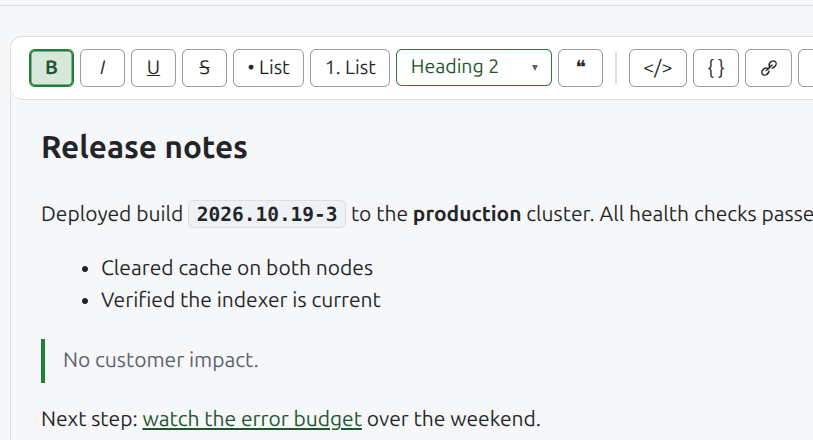
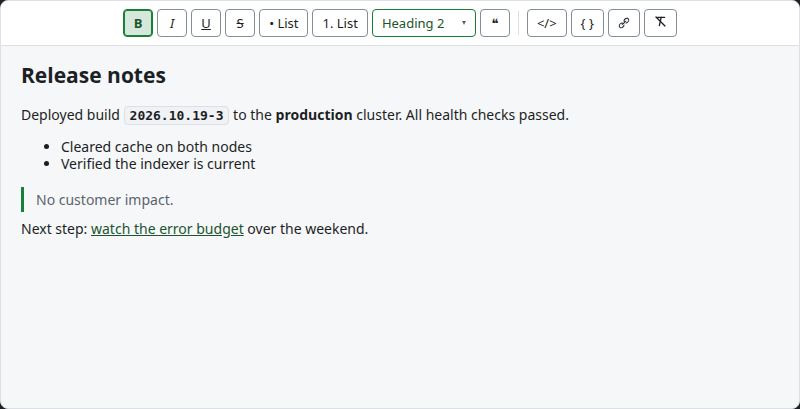
feat(dialogs,tutorial): make dialogs responsive, add Preview close & tabindex, refresh tutorial UX and screenshots (DIR-61)

diff --git a/index.html b/index.html
@@ -438,10 +438,10 @@
         <dialog
             id="previewDialog"
             class="preview-dialog"
-            aria-label="Work notes"
+            aria-label="Work notes preview"
         >
             <div class="preview-box">
-                <div class="mirror-body" id="mirrorBody">
+                <div class="mirror-body" id="mirrorBody" tabindex="0">
                     <div class="journal-entry">
                         <div class="journal-head">
                             <span
@@ -464,6 +464,14 @@
                                     id="journalTime"
                                 ></time>
                             </span>
+                            <button
+                                type="button"
+                                id="previewClose"
+                                class="preview-close"
+                                aria-label="Close preview"
+                            >
+                                ×
+                            </button>
                         </div>
 
                         <div
@@ -852,6 +860,9 @@
             <div class="tutorial-box">
                 <header class="tutorial-head">
                     <p class="tutorial-kicker">How it works</p>
+                    <span class="tutorial-counter" id="tutorialCounter"
+                        >1 / 2</span
+                    >
 
                     <button
                         type="button"
@@ -865,7 +876,7 @@
 
                 <div class="tutorial-body" id="tutorialBody">
                     <section class="tutorial-step" data-step="0">
-                        <h3>What this tool does</h3>
+                        <h2>What this tool does</h2>
 
                         <p>
                             ServiceNow shows Work notes and Additional Comments
@@ -879,15 +890,15 @@
                             <img
                                 class="tutorial-shot-dark"
                                 src="assets/tutorial/editor-dark.png"
-                                width="813"
-                                height="440"
+                                width="800"
+                                height="409"
                                 alt="The editor card with a formatted entry and the formatting toolbar above it."
                             />
                             <img
                                 class="tutorial-shot-light"
                                 src="assets/tutorial/editor-light.png"
-                                width="813"
-                                height="440"
+                                width="800"
+                                height="409"
                                 alt="The editor card with a formatted entry and the formatting toolbar above it."
                             />
                             <figcaption>
@@ -899,7 +910,7 @@
                     </section>
 
                     <section class="tutorial-step" data-step="1" hidden>
-                        <h3>What lands on the clipboard</h3>
+                        <h2>What lands on the clipboard</h2>
 
                         <p>
                             Copy [formatted] (Ctrl+Alt+C) puts plain text on

diff --git a/styles.css b/styles.css
@@ -855,8 +855,9 @@ main {
 
 .journal-head {
     display: flex;
+    flex-wrap: wrap;
     align-items: center;
-    gap: 10px;
+    gap: 6px 10px;
     margin-bottom: 12px;
 }
 
@@ -887,6 +888,30 @@ main {
     white-space: nowrap;
     font-size: 14px;
     color: rgb(76, 86, 92);
+}
+
+.preview-close {
+    flex: none;
+    display: flex;
+    align-items: center;
+    justify-content: center;
+    width: 28px;
+    height: 28px;
+    padding: 0;
+    border: 1px solid transparent;
+    border-radius: 4px;
+    background: transparent;
+    color: rgb(76, 86, 92);
+    font-family: inherit;
+    font-size: 18px;
+    line-height: 1;
+    cursor: pointer;
+}
+
+.preview-close:hover {
+    border-color: rgb(180, 187, 192);
+    background: rgb(240, 242, 245);
+    color: rgb(16, 23, 26);
 }
 
 /* ---------- Saved messages ---------- */
@@ -1064,7 +1089,7 @@ main {
     display: flex;
     flex-direction: column;
     gap: 6px;
-    width: 22rem;
+    width: min(22rem, calc(100vw - 32px));
     max-width: 100%;
     padding: 16px;
     border: 1px solid var(--border-strong);
@@ -1298,10 +1323,13 @@ main {
 /* Two columns, wider than the single-field dialogs: the section list on the
    left, the setting beside it on the right. */
 .settings-form {
-    width: 34rem;
+    width: min(34rem, calc(100vw - 32px));
+    max-height: calc(100dvh - 32px);
 }
 
 .settings-body {
+    flex: 1 1 auto;
+    min-height: 0;
     display: flex;
     gap: 12px;
 }
@@ -1348,6 +1376,7 @@ main {
     flex: 1;
     min-width: 0;
     min-height: 10rem;
+    overflow-y: auto;
     padding-left: 12px;
 }
 
@@ -1509,6 +1538,12 @@ main {
     text-transform: uppercase;
 }
 
+.tutorial-counter {
+    color: var(--muted);
+    font-size: 11px;
+    font-variant-numeric: tabular-nums;
+}
+
 .tutorial-close {
     flex: none;
     margin-left: auto;
@@ -1551,7 +1586,7 @@ main {
     display: none;
 }
 
-.tutorial-step h3 {
+.tutorial-step h2 {
     margin: 0;
     font-size: 17px;
 }
@@ -1642,6 +1677,28 @@ main {
 }
 
 @media (max-width: 640px) {
+    .settings-body {
+        flex-direction: column;
+    }
+
+    .settings-nav {
+        flex-direction: row;
+        flex-wrap: wrap;
+        width: 100%;
+        padding-right: 0;
+        padding-bottom: 8px;
+        border-right: none;
+        border-bottom: 1px solid var(--border);
+    }
+
+    .settings-nav-item {
+        width: auto;
+    }
+
+    .settings-panels {
+        padding-left: 0;
+    }
+
     .tutorial-foot {
         flex-wrap: wrap;
     }

diff --git a/js/tutorial.js b/js/tutorial.js
@@ -60,6 +60,9 @@ function showTutorialStep(index) {
     tutorialBack.hidden = tutorialIndex === 0;
     tutorialNext.textContent =
         tutorialIndex === tutorialSteps.length - 1 ? "Done" : "Next";
+    if (tutorialCounter) {
+        tutorialCounter.textContent = `${tutorialIndex + 1} / ${tutorialSteps.length}`;
+    }
     tutorialBody.scrollTop = 0;
 }
 
@@ -81,6 +84,7 @@ function openTutorial() {
  * the Settings button that launched it.
  */
 let focusEditorAfterClose = false;
+let openedTutorialFromSettings = false;
 
 function maybeShowTutorial() {
     if (tutorialIsHidden()) return;
@@ -90,7 +94,13 @@ function maybeShowTutorial() {
 }
 
 tutorialDialog.addEventListener("close", () => {
-    if (focusEditorAfterClose && matchMedia("(min-width: 801px)").matches) {
+    if (openedTutorialFromSettings) {
+        openedTutorialFromSettings = false;
+        settingsBtn.focus();
+    } else if (
+        focusEditorAfterClose &&
+        matchMedia("(min-width: 801px)").matches
+    ) {
         editor.focus();
     }
 
@@ -139,6 +149,8 @@ tutorialStartInput.addEventListener("change", () => {
 });
 
 tutorialOpenBtn.addEventListener("click", () => {
+    openedTutorialFromSettings = true;
+
     if (settingsDialog.open) settingsDialog.close();
 
     openTutorial();

diff --git a/js/core.js b/js/core.js
@@ -7,6 +7,7 @@ const mirror = document.getElementById("mirror");
 const mirrorBody = document.getElementById("mirrorBody");
 const journalTime = document.getElementById("journalTime");
 const previewDialog = document.getElementById("previewDialog");
+const previewClose = document.getElementById("previewClose");
 const previewBtn = document.getElementById("previewBtn");
 const copyBtn = document.getElementById("copyBtn");
 const toolbar = document.getElementById("toolbar");
@@ -49,6 +50,7 @@ const accentResetBtn = document.getElementById("accentResetBtn");
 const clearAfterCopyInput = document.getElementById("clearAfterCopyInput");
 const tutorialDialog = document.getElementById("tutorialDialog");
 const tutorialBody = document.getElementById("tutorialBody");
+const tutorialCounter = document.getElementById("tutorialCounter");
 const tutorialClose = document.getElementById("tutorialClose");
 const tutorialBack = document.getElementById("tutorialBack");
 const tutorialNext = document.getElementById("tutorialNext");

diff --git a/js/settings.js b/js/settings.js
@@ -35,6 +35,10 @@ function openSettingsDialog() {
 function openSettingsDialogAt(name) {
     showSettingsPanel(name);
     openSettingsDialog();
+
+    const active = settingsNav.querySelector(`[data-panel="${name}"]`);
+
+    if (active) active.focus();
 }
 
 settingsBtn.addEventListener("click", openSettingsDialog);

diff --git a/js/preview.js b/js/preview.js
@@ -48,6 +48,10 @@ function openPreviewDialog() {
 
 previewBtn.addEventListener("click", openPreviewDialog);
 
+previewClose.addEventListener("click", () => {
+    previewDialog.close();
+});
+
 closeOnBackdrop(previewDialog, () => {
     previewDialog.close();
 });
